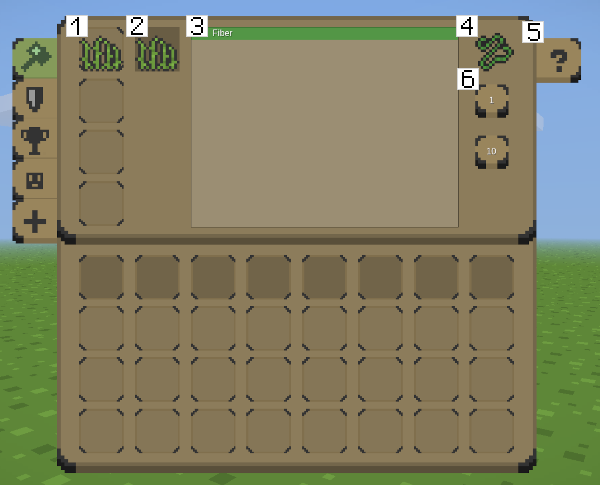
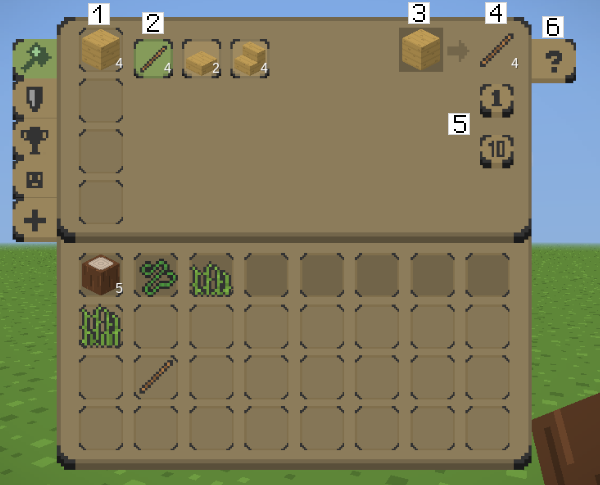
Update manual for new GUI

diff --git a/manual_generator/content/manual.md b/manual_generator/content/manual.md
@@ -130,7 +130,7 @@ The <span class="concept">inventory</span> screen shows your inventory as well a
 
 The inventory screen is organized in <span class="concept">pages</span>. The tabs on the left side, shown on the screenshot at the number (1), let you switch the page. The tab highlighted in green indicates the current tab. On this screenshot, we’re on the Crafting page.
 
-Some pages, like the Crafting page, show your inventory (2). The inventory is where you store and move your items. The top row represents your hotbar, i.e. the items you can actually use while exploring the world.
+Some pages, like the Crafting page, show your inventory (2). The inventory is where you store and move your items. The top row represents your <span class="concept">hotbar</span>, i.e. the items you can actually use while exploring the world.
 
 The next sections explain every page.
 
@@ -138,25 +138,43 @@ The next sections explain every page.
 
 ![Crafting menu](./assets/images/screenshots/inventory_crafting.png)
 
-Here you can craft, i.e. combine items to create new items.
+Here you can <span class="concept">craft</span>, i.e. combine items to create new items.
 
-Initially, this page is mostly empty with only the crafting slots (1) and the crafting guide button (5) visible.
+##### Quick start guide
 
-To the left (1), you see 4 crafting slots. If you put one or multiple items into these slots (the order does not matter) and you can craft something useful from it, this will activate the crafting list (3), the recipe (2) and output preview (4).
+Here’s how to craft:
 
-Right from the crafting slots, the recipe is shown (2). This section has up to 4 item icons that tell you which items are required for crafting the currently selected recipe. Hover an icon with a cursor to learn what it is. If an item has a darkened background, that means other, similar items within the same group are accepted as well. For example, in this image, a <span class="item">grass clump</span> is shown but since the background is darkened this means that similar grass clumps will be accepted as well.
+1. Put input item(s) into the <span class="concept">crafting slots</span> (1) until the <span class="concept">crafting list</span> (2) shows something
+2. Select an output item in the crafting list (2)
+3. Click one of the <span class="concept">crafting buttons</span> (5) to craft it 1 or 10 times
 
-Right from the recipe is the recipe list (3). This list shows everything you can currently craft from the items in the crafting slots, in alphabetical order. If there is a number next to the item name, that’s the count of the resulting item. Select the item you want to craft and/or learn the recipe for. If you double click/double-tap something in the list, you will craft the item.
+The result should now be in your inventory.
 
-The crafting buttons labelled “1” and “10” are to the right (6). They let you craft the selected recipe 1 time, or 10 times. Note the “10” button also works even if you don’t have items for 10 crafts; in that case, you will craft it as many times as you can. All crafted items will appear your inventory into the first free slot. Crafting does *not* work when your inventory is full.
+##### Detailed guide
 
-Finally, the black question mark button (5) toggles the crafting guide and the question mark will turn white. If the crafting guide is active, the recipe list will show every possible recipe, even those you can’t craft yet.
+At first, this page is mostly empty with only the <span class="concept">crafting slots</span> (1) and the <span class="concept">crafting guide</span> button (6) visible.
 
-#### Armor
+To the left (1), you see 4 crafting slots. If you put one or multiple items into these slots (the order does not matter) and you can craft something from it, this will activate the <span class="concept">crafting list</span> (2) and the <span class="concept">recipe</span> (3 and 4).
+
+The crafting list shows everything you can craft from the items in the input slots (if any). In the screenshot example, 4 <span class="item">wooden planks</span> are used as input. The crafting list shows what you can craft: 4 <span class="item">sticks</span>, 2 <span class="item">wooden slabs</span> and 4 <span class="item">wooden stairs</span>. In the crafting list, one recipe is selected, it appears in green. In this case, it’s the <span class="item">sticks</span>.
+
+Right from the crafting list, the recipe is shown (3 and 4). A recipe always has 1 to 4 input items (3) and one output (4). The example shows that you need a <span class="item">wooden plank</span> to craft 4 <span class="item">sticks</span>. Hover with the cursor over an item icon to learn what it is.
+
+In the recipe input, if an item has a darkened background, that means other, similar items within the same group are accepted as well. For example, in this image, <span class="item">wooden planks</span> are shown but since the background is darkened this means that other types of wooden planks will be accepted as well.
+
+The crafting buttons labelled “1” and “10” are to the right (5). They let you craft the selected recipe 1 time, or 10 times. The “10” button also works even if you don’t have items for 10 crafts; in that case, you will craft it as many times as you can. All crafted items will appear your inventory into the first free slot (or slots). **Note**: If your inventory is full, nothing happens.
+
+Finally, the black question mark button (6) toggles the crafting guide.
+
+![Crafting guide](./assets/images/screenshots/inventory_crafting_guide.png)
+
+If the crafting guide is active, the button turns green and the crafting list will show every possible recipe, even those you can’t craft at the moment. Items you cannot currently craft from the input items have a darkened background (1) while craftable items have the default color (2).
+
+#### Armor page
 
 ![Armor menu](./assets/images/screenshots/inventory_armor.png)
 
-In this page you can view and equip armor, which protects you from some forms of damage.
+In this page you can view and equip <span class="concept">armor</span>, which protects you from some forms of damage.
 
 If you have a helmet, chestplate or a pair of boots, simply put it into the matching slot (1) to equip it. Move an item away from the armor slots to unequip it.
 
@@ -164,39 +182,71 @@ Next to the shield icon (2) you see your current protection level. Damage is red
 
 If you receive any armor bonuses, additional icons and text may appear on the page. Move the cursor on the icon for an explanation.
 
-#### Achievements
+#### Achievements page
 
-![Achievements menu](./assets/images/screenshots/inventory_achievements.png)
+This page shows all <span class="concept">achievements</span> you can get in this game and which of them you have completed. Achievements are simple optional side tasks.
 
-This page shows all achievements you can get in this game and how many of them you have completed. Achievements are simple optional side tasks. See the section on Achievements below to learn more.
+There are two ways to display achievements: As symbols and as a text list. Click the button to right (1) to switch the display mode.
 
-On the top left side (1), you see the name and symbol of the selected achievement. Right from that (2) there is a description telling you what you have to do to get it. At the right edge (3), the achievement state is shown. There are are 3 possible states: Missing, In progress and Gotten.
+Each achievement has one of 3 states:
 
-The big list (4) is the list of all achievements. This list is organized in 3 columns: Status icon, name and goal description. The following status icons are used:
+* <span class="concept">**Gotten**</span>: You have completed this achievement. Congratulations!
+* <span class="concept">**In progress**</span>: You have only completed this achievement partially
+* <span class="concept">**Missing**</span>: You have not completed this achievement
 
-* **Checkmark**: Achievement gotten (text will also be green)
-* **Circle**: Achievement in progress (this icon is a pie diagram roughly showing the completion percentage)
-* **No icon**: Achievement missing
+At the bottom (6) of both screens, the summary of your achievement progress is shown.
 
-At the bottom (5) the summary of your achievement progress is shown.
+##### Symbols mode
 
-#### Player skins
+![Achievements menu (Symbols mode)](./assets/images/screenshots/inventory_achievements_symbols.png)
+
+This is the default mode. This mode shows all achievements in the game as symbols (2). Achievements you have gotten will have a green background while other achievements have a brown background. Hover a symbol with the cursor to see name, description and current status (gotten, in progress or missing).
+
+Only gotten achievements show their true symbol; others have a question mark.
+
+##### Text list mode
+
+![Achievements menu (Text mode)](./assets/images/screenshots/inventory_achievements_text.png)
+
+This mode shows the achievements as text and offers a little more information.
+
+On the top left side (2), you see the name and symbol of the selected achievement. Right from that (3), there is a description telling you what you have to do to get it. At the right edge (4), the achievement state is shown.
+
+The big list (5) is the list of all achievements. This list is organized in 3 columns: Status icon, name and goal description. The following status icons are used:
+
+* **Checkmark**: Gotten (text will also be green)
+* **Circle**: In progress (this icon is a pie diagram roughly showing the completion percentage)
+* **No icon**: Missing
+
+If you select an achievement that is partially completed in the text list, you can see which steps have already been completed. For example, which foods you have eaten for food-related achievements. You can only do this in the text list mode.
+
+#### Player skins page
 
 ![Player skins menu](./assets/images/screenshots/inventory_skins.png)
 
 On this page you can look at and change your current player skin. Just click on a button to cycle through the style and color of something. You can also randomize everything with the “Random” button.
 
-#### Creative Inventory
+#### Creative Inventory page
 
 ![Creative inventory](./assets/images/screenshots/inventory_creative.png)
 
-This page is only available when Creative Mode is enabled. Here you can get (almost) all items for free. Note that some items that are too “technical” or items that might break the game if you have them are not visible here.
+This page is only available when Creative Mode is enabled. Here you can get (almost) all items for free. Note that items that are too “technical” for players are hidden here.
 
-From the creative inventory (1), you can get (almost) all items for free. Just drag items from there into your own inventory. You cannot put items into the creative inventory.
+From the <span class="concept">creative inventory</span> (1), you can get the items. Just drag items from there into your own inventory. You cannot put items into the creative inventory.
 
 The creative inventory does not fit on a single screen, so with the arrow buttons (3) and (4) you can change to the previous and next screen, respectively. (2) indicates the number of the current screen and the total number of screens.
 
-The item slot with an “X” symbol (5) is the trash. Put items here to destroy them. Alternatively, you can <kbd>Sneak</kbd>+<kbd>Click</kbd> on an item in your inventory to trash it instantly.
+The item slot with the “X” symbol (5) is the <span class="concept">trash</span>. Put items here to destroy them. Alternatively, you can <kbd>Sneak</kbd>+<kbd>Click</kbd> on an item in your inventory to trash it instantly.
+
+The magnifying glass button (6) starts a <span class="concept">search</span>, where you can search for items by name. A text field appears in which you can enter anything you want. The game will search for:
+
+* Item name as it appears in the tooltip (usually first line only)
+* Item name in English
+* The “technical” item name (e.g. `rp_default:stone`)
+
+Hit <kbd>Enter</kbd> (on PC) or click the button next to the text field to submit the search.
+
+While the search is active, only items that match the search will appear. To stop the search (which makes all items appear again), click on the magnifying glass again.
 
 ### Other screens
 
@@ -424,7 +474,7 @@ If you’re a mod developer, read the text file `DEVELOPERS.md` in the Repixture
 
 ## Compatibility notes
 
-### Mod compability
+### Mod compatibility
 
 While Repixture supports Minetest mods, not all mods that were created for Minetest will work in Repixture.
 
